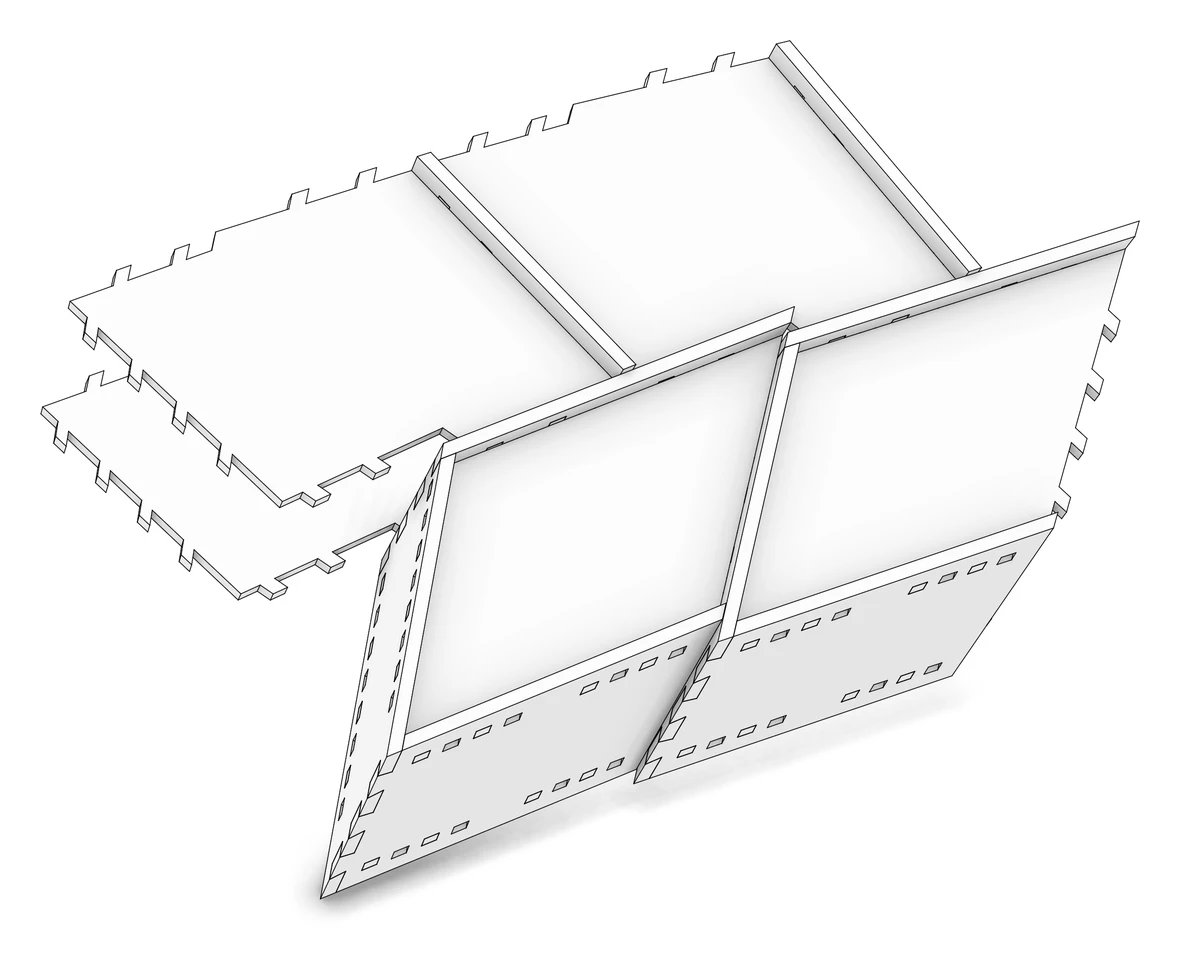
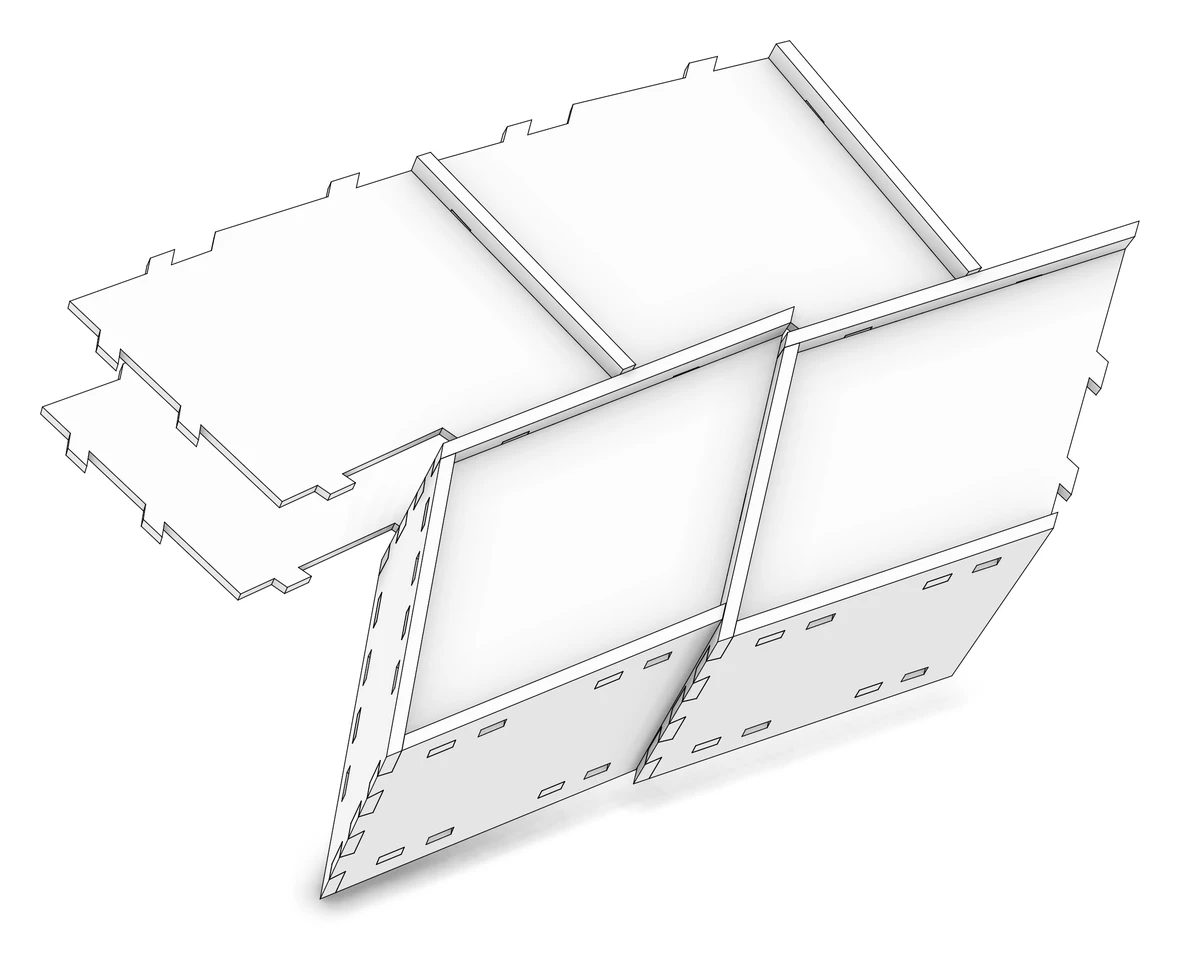
chevron: the shifted template's divisions default 1, half the definition's tenons
Two tenons on a long edge and one on a short one instead of four and two, 6518 instead of 13036; the comparison with Annen2.3dm stands at the definition's divisions 2.

diff --git a/src/templates/chevron/chevron_shifted.h b/src/templates/chevron/chevron_shifted.h
@@ -74,7 +74,7 @@ public:
         double plate_thickness = 40.0,
         double wall_extend = 80.0,
         bool average_planes = true,
-        int divisions = 2,
+        int divisions = 1,
         double long_edge = 700.0,
         double short_edge = 200.0,
         int finger_divisions = 7,

diff --git a/docs/templates/chevron.md b/docs/templates/chevron.md
@@ -185,7 +185,7 @@ The defaults are the slider values of the Grasshopper definition, read in millim
 | `plate_thickness` | `double` | `40.0` | Thickness of every plate in mm (`plateWidth`) |
 | `wall_extend` | `double` | `80.0` | Length the walls run past the outer faces of the top and bottom plates in mm (`extend`) |
 | `average_planes` | `bool` | `true` | Merge both halves of every even cell's long sides into one turned plane (`averagePlanes`) |
-| `divisions` | `int` | `2` | Tenon steps per edge: `2·divisions + 1` on a short edge, `4·divisions + 1` on a long one, a tenon at every odd step (`divisions`) |
+| `divisions` | `int` | `1` | Tenon steps per edge: `2·divisions + 1` on a short edge, `4·divisions + 1` on a long one, a tenon at every odd step (`divisions`) |
 | `long_edge` | `double` | `700.0` | Length in mm above which an edge takes twice the steps (`tolerance`) |
 | `short_edge` | `double` | `200.0` | Length in mm below which an edge takes no tenons (`toleranceSmall`) |
 
@@ -259,7 +259,7 @@ for (size_t k = 0; k < edges.size(); k++) {
 
 ### Ground Truth {#chevron_shifted_ground_truth}
 
-`examples/templates_chevron_2_shifted.cpp` builds the pattern on the first Annen surface, the surface internalised in the definition, and is compared with `Annen2.3dm` as the definition baked it: 431 top and bottom plates carrying its tenons and 644 walls it never cut, as meshes in metres. Every vertex of every ground-truth plate lies within 0.011 mm of our outlines after the joints, except at the cut steps of 104 odd plates, where the definition's step corner stands up to 81 mm off the cut, and on the first quads' plates, stepped in by a wall where the definition left them inside their neighbours' walls, which moves the tenons they share with the plates across their cross walls by up to 19 mm on 12 of those, and every tenon the ground truth carries, 12772 of them, has its corners within 0.011 mm of a tenon of ours, on all 431 plates but the 16 on the naked long side of column 0 and the tenon beside each cut, which the cut trims, leaning through the plate's thickness as the ground truth's do within 0.012 mm; on that naked side the definition split its wall at a plane through the midpoint of the two edge middles, a plane no wall stands on once the halves are one, so the junction now bounds the tenons square across the side through the collinear vertex and those 16 plates' tenons move by up to 1.1 mm. Every ground-truth wall vertex lies on our wall outlines before the merge, the mitres and the trims, and the ground truth lacks the top plate of the last quad of column 0, which this template builds. Ours has tenons the ground truth lacks on 56 plates: those next to the seam of a ground-truth outline, on its first or last side, always the ones nearest the seam corner, where the definition's polyline insertion dropped the tenons it had computed, and those on the two ground-truth meshes whose caps are torn (objects 844 and 957). The definition's walls are plain, so the slots the solver cuts for every tenon have no counterpart there; every slot of ours is the exact negative of its tenon, and the walls no tenon reaches, the last quads' end walls, stay uncut here as well.
+`examples/templates_chevron_2_shifted.cpp` builds the pattern on the first Annen surface, the surface internalised in the definition, and is compared, with `divisions` at the definition's 2, with `Annen2.3dm` as the definition baked it (the template's default is now 1, half the tenons, which cuts 6518 tenons instead of 13036): 431 top and bottom plates carrying its tenons and 644 walls it never cut, as meshes in metres. Every vertex of every ground-truth plate lies within 0.011 mm of our outlines after the joints, except at the cut steps of 104 odd plates, where the definition's step corner stands up to 81 mm off the cut, and on the first quads' plates, stepped in by a wall where the definition left them inside their neighbours' walls, which moves the tenons they share with the plates across their cross walls by up to 19 mm on 12 of those, and every tenon the ground truth carries, 12772 of them, has its corners within 0.011 mm of a tenon of ours, on all 431 plates but the 16 on the naked long side of column 0 and the tenon beside each cut, which the cut trims, leaning through the plate's thickness as the ground truth's do within 0.012 mm; on that naked side the definition split its wall at a plane through the midpoint of the two edge middles, a plane no wall stands on once the halves are one, so the junction now bounds the tenons square across the side through the collinear vertex and those 16 plates' tenons move by up to 1.1 mm. Every ground-truth wall vertex lies on our wall outlines before the merge, the mitres and the trims, and the ground truth lacks the top plate of the last quad of column 0, which this template builds. Ours has tenons the ground truth lacks on 56 plates: those next to the seam of a ground-truth outline, on its first or last side, always the ones nearest the seam corner, where the definition's polyline insertion dropped the tenons it had computed, and those on the two ground-truth meshes whose caps are torn (objects 844 and 957). The definition's walls are plain, so the slots the solver cuts for every tenon have no counterpart there; every slot of ours is the exact negative of its tenon, and the walls no tenon reaches, the last quads' end walls, stay uncut here as well.
 
 
 ## Assembly {#chevron_assembly}
@@ -270,7 +270,7 @@ for (size_t k = 0; k < edges.size(); k++) {
 ![MAX2 assembly](images/templates/templates_chevron_6_max2_assembly.gif)
 ![Shifted assembly](images/templates/templates_chevron_5_shifted_assembly.gif)
 
-Christopher's chevron tenons are prisms along their own box's vector, and the chevron and MAX2 shells assemble as rigid boxes: on the first Annen surface 184 boxes in order, 22 plate pairs meeting along the way, 18 of them deeper than 1 mm and the deepest 6.67 mm, all but one at the end of the way with points inside each other in place, the overlaps the turned and moved edge planes give neighbouring plates; the MAX2 arch 200 boxes, 27 pairs, the deepest 7.67 mm, 23 of them in place and four binding by up to 2.1 mm over the last 20 mm. The shifted cells do not. A plate's tenons into the wall of a neighbouring cell are cut along that cell's insertion vector, which lies in the neighbour's plane; the surface turns between the two cells, so in the plate's own plane the tenon axis is off by that turn, about 3 degrees at the feet, and a box slid in along one vector binds by a couple of millimetres across the wall. `Annen2.3dm` has exactly the same tenons, so the template reproduces them rather than correcting them. An even cell's outward long wall takes its own plates' tenons along the odd neighbour's vector, which is right for the order: that wall is in place before the odd plates slide their tenons into it. What blocked the boxes was the steps of the odd plates where the long walls of two cells of a column meet end to end: a step of up to 100 mm into the slab the lower wall sweeps through on its last 50 mm of travel, 20 mm deep, the full half thickness, at every such junction. With the steps cut along the movers' vectors and the first quads' plates stepped in under their neighbours' walls, which the definition left overlapping them by a thickness, the sweep finds 852 plate pairs meeting, 670 deeper than 1 mm, 44 deeper than 5 mm and none deeper than 8.3 mm: the tenons' lean, and the left steps of two columns the rule leaves uncut. The picture shows the order the tenons dictate.
+Christopher's chevron tenons are prisms along their own box's vector, and the chevron and MAX2 shells assemble as rigid boxes: on the first Annen surface 184 boxes in order, 22 plate pairs meeting along the way, 18 of them deeper than 1 mm and the deepest 6.67 mm, all but one at the end of the way with points inside each other in place, the overlaps the turned and moved edge planes give neighbouring plates; the MAX2 arch 200 boxes, 27 pairs, the deepest 7.67 mm, 23 of them in place and four binding by up to 2.1 mm over the last 20 mm. The shifted cells do not. A plate's tenons into the wall of a neighbouring cell are cut along that cell's insertion vector, which lies in the neighbour's plane; the surface turns between the two cells, so in the plate's own plane the tenon axis is off by that turn, about 3 degrees at the feet, and a box slid in along one vector binds by a couple of millimetres across the wall. `Annen2.3dm` has exactly the same tenons, so the template reproduces them rather than correcting them. An even cell's outward long wall takes its own plates' tenons along the odd neighbour's vector, which is right for the order: that wall is in place before the odd plates slide their tenons into it. What blocked the boxes was the steps of the odd plates where the long walls of two cells of a column meet end to end: a step of up to 100 mm into the slab the lower wall sweeps through on its last 50 mm of travel, 20 mm deep, the full half thickness, at every such junction. With the steps cut along the movers' vectors and the first quads' plates stepped in under their neighbours' walls, which the definition left overlapping them by a thickness, the sweep finds 849 plate pairs meeting, 668 deeper than 1 mm, 39 deeper than 5 mm and none deeper than 8.3 mm: the tenons' lean, and the left steps of two columns the rule leaves uncut. The picture shows the order the tenons dictate.
 
 ```cpp
 #include "wood_session.h"
